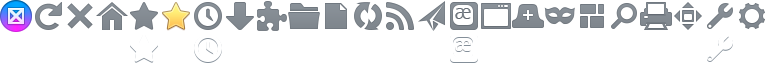
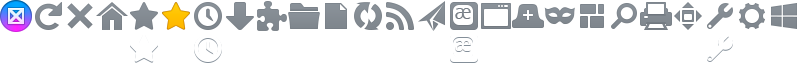
Bug 934032 - Add View on Metro feature to Desktop Firefox in Australis. r=bbondy
UltraBlame original commit: bd024cf6af34e48f619313ae6f4178b8fd1284b1

diff --git a/browser/base/content/browser.js b/browser/base/content/browser.js
@@ -2460,6 +2460,48 @@ function BrowserFullScreen()
   window.fullScreen = !window.fullScreen;
 }
 
+function _checkDefaultAndSwitchToMetro() {
+#ifdef HAVE_SHELL_SERVICE
+#ifdef XP_WIN
+#ifdef MOZ_METRO
+  let shell = Components.classes["@mozilla.org/browser/shell-service;1"].
+    getService(Components.interfaces.nsIShellService);
+  let isDefault = shell.isDefaultBrowser(false, false);
+
+  if (isDefault) {
+    let appStartup = Components.classes["@mozilla.org/toolkit/app-startup;1"].
+    getService(Components.interfaces.nsIAppStartup);
+
+    appStartup.quit(Components.interfaces.nsIAppStartup.eAttemptQuit |
+                    Components.interfaces.nsIAppStartup.eRestartTouchEnvironment);
+    return true;
+  }
+  return false;
+#endif
+#endif
+#endif
+}
+
+function SwitchToMetro() {
+#ifdef HAVE_SHELL_SERVICE
+#ifdef XP_WIN
+#ifdef MOZ_METRO
+  if (this._checkDefaultAndSwitchToMetro()) {
+    return;
+  }
+
+  let shell = Components.classes["@mozilla.org/browser/shell-service;1"].
+    getService(Components.interfaces.nsIShellService);
+
+  shell.setDefaultBrowser(false, false);
+
+  let intervalID = window.setInterval(this._checkDefaultAndSwitchToMetro, 1000);
+  window.setTimeout(function() { window.clearInterval(intervalID); }, 10000);
+#endif
+#endif
+#endif
+}
+
 function onFullScreen(event) {
   FullScreen.toggle(event);
 }

diff --git a/browser/themes/shared/menupanel.inc.css b/browser/themes/shared/menupanel.inc.css
@@ -30,6 +30,11 @@ toolbarpaletteitem[place="palette"] > #downloads-button {
   -moz-image-region: rect(0px, 256px, 32px, 224px);
 }
 
+#switch-to-metro-button[cui-areatype="menu-panel"],
+toolbarpaletteitem[place="palette"] > #switch-to-metro-button {
+  -moz-image-region: rect(0px, 800px, 32px, 768px);
+}
+
 #add-ons-button[cui-areatype="menu-panel"],
 toolbarpaletteitem[place="palette"] > #add-ons-button {
   -moz-image-region: rect(0px, 288px, 32px, 256px);

diff --git a/browser/themes/shared/toolbarbuttons.inc.css b/browser/themes/shared/toolbarbuttons.inc.css
@@ -49,6 +49,10 @@
   -moz-image-region: rect(0, 216px, 18px, 198px);
 }
 
+#switch-to-metro-button[cui-areatype="toolbar"] {
+  -moz-image-region: rect(0, 648px, 18px, 630px);
+}
+
 #open-file-button[cui-areatype="toolbar"] {
   -moz-image-region: rect(0, 234px, 18px, 216px);
 }

diff --git a/toolkit/xre/nsAppRunner.cpp b/toolkit/xre/nsAppRunner.cpp
@@ -127,6 +127,10 @@
 #include "nsXREDirProvider.h"
 #include "nsToolkitCompsCID.h"
 
+#if defined(XP_WIN) && defined(MOZ_METRO)
+#include "updatehelper.h"
+#endif
+
 #include "nsINIParser.h"
 #include "mozilla/Omnijar.h"
 #include "mozilla/StartupTimeline.h"
@@ -4047,12 +4051,18 @@ XREMain::XRE_main(int argc, char* argv[], const nsXREAppData* aAppData)
 
   
   
-  if (rv == NS_SUCCESS_RESTART_APP) {
+  if (rv == NS_SUCCESS_RESTART_APP || rv == NS_SUCCESS_RESTART_METRO_APP) {
     appInitiatedRestart = true;
 
     
     
     gShutdownChecks = SCM_NOTHING;
+
+    #if defined(MOZ_METRO) && defined(XP_WIN)
+    if (rv == NS_SUCCESS_RESTART_METRO_APP) {
+      LaunchDefaultMetroBrowser();
+    }
+    #endif
   }
 
   if (!mShuttingDown) {

diff --git a/toolkit/components/startup/nsAppStartup.cpp b/toolkit/components/startup/nsAppStartup.cpp
@@ -270,7 +270,14 @@ nsAppStartup::Run(void)
       return rv;
   }
 
-  return (mRestart || mRestartTouchEnvironment) ? NS_SUCCESS_RESTART_APP : NS_OK;
+  nsresult retval = NS_OK;
+  if (mRestartTouchEnvironment) {
+    retval = NS_SUCCESS_RESTART_METRO_APP;
+  } else if (mRestart) {
+    retval = NS_SUCCESS_RESTART_APP;
+  }
+
+  return retval;
 }
 
 

diff --git a/xpcom/base/ErrorList.h b/xpcom/base/ErrorList.h
@@ -856,6 +856,7 @@
 
 
   ERROR(NS_SUCCESS_RESTART_APP,          SUCCESS(1)),
+  ERROR(NS_SUCCESS_RESTART_METRO_APP,    SUCCESS(1)),
   ERROR(NS_SUCCESS_UNORM_NOTFOUND,  SUCCESS(17)),
 
 
